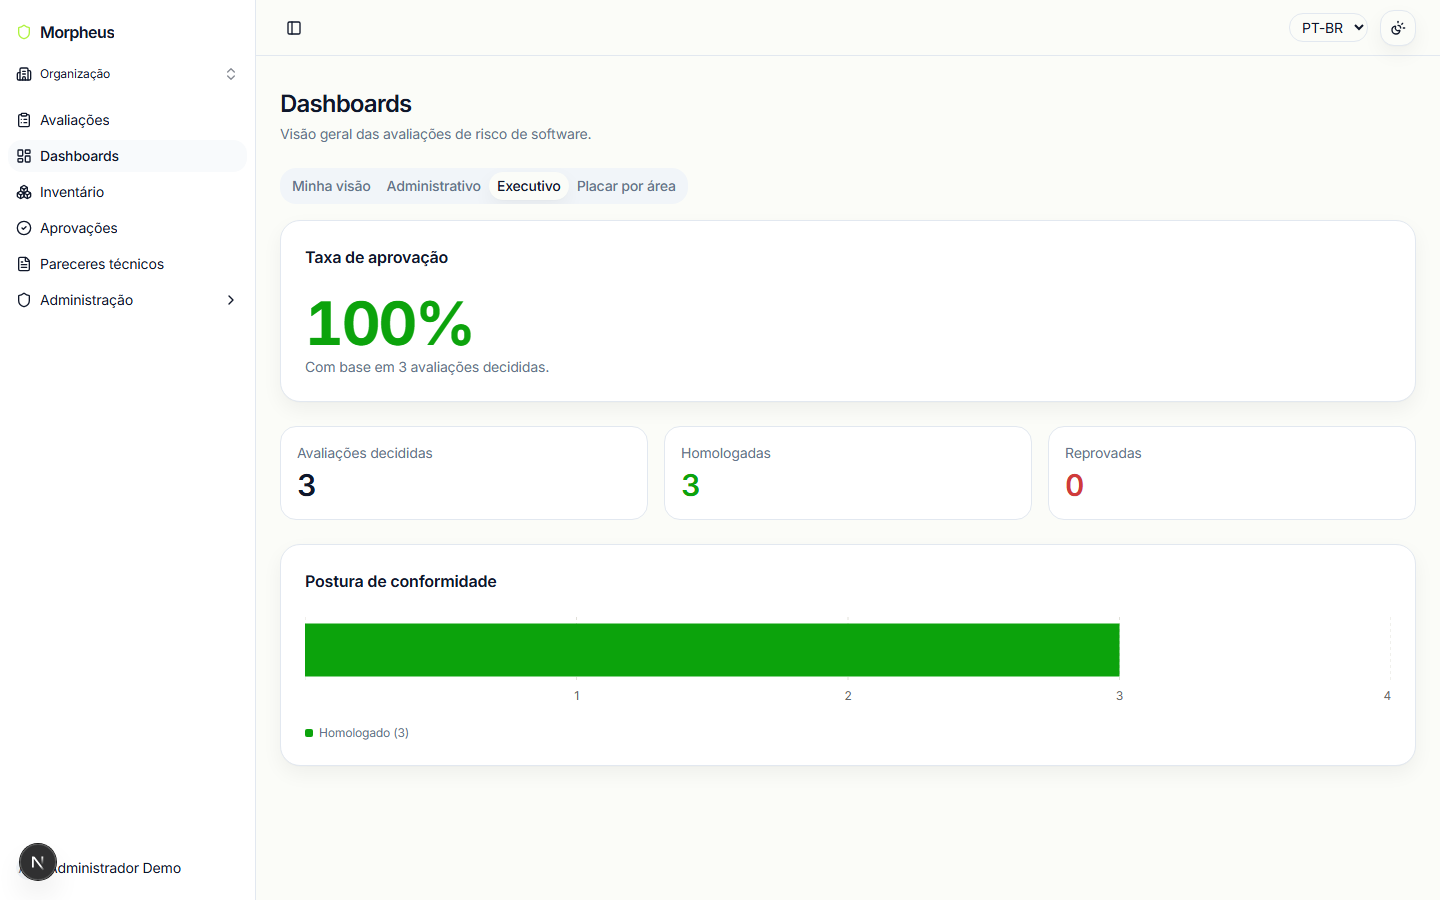
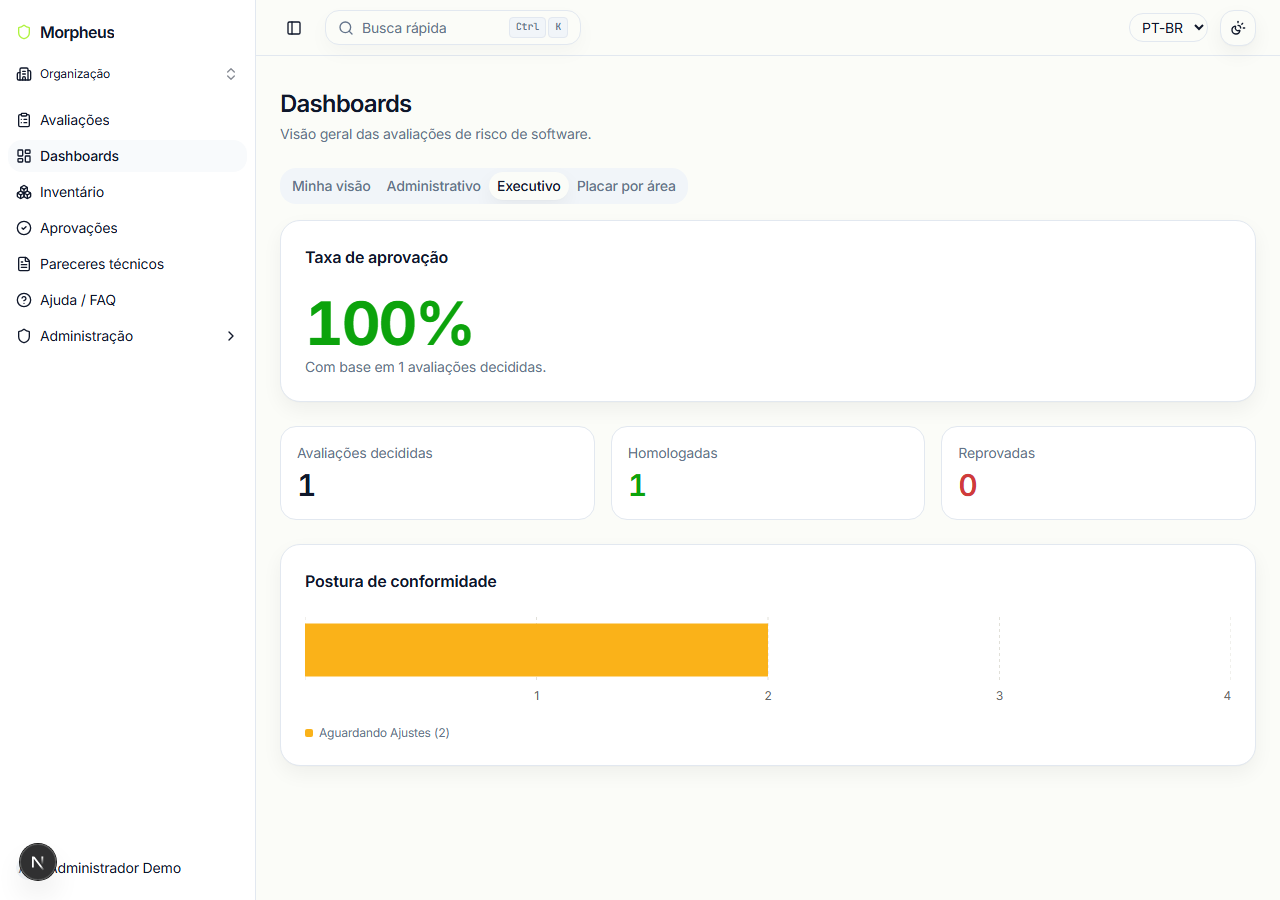
docs: seção sobre a metodologia da matriz de risco no README (PT+EN) (#54)
Explica a abordagem probabilidade x impacto do motor de risco, alinhada
com NIST SP 800-30, e destaca que faixas/classificações/score mínimo são
totalmente customizáveis por tenant (sem mudança de código). Inclui
screenshots novos (PT e EN) da tela de parametrização da matriz pareados
com o dashboard executivo (postura de conformidade).

diff --git a/docs/DEVELOPMENT.md b/docs/DEVELOPMENT.md
@@ -1786,3 +1786,41 @@ permissões seedadas desde a Etapa 1 que nunca tinham sido usadas por nenhum end
     teste já existente de `dashboards.service.spec.ts`, não um teste novo - contagem total não muda).
 
 Com a Fase 6, as 6 fases do plano de renovação anual de homologação estão completas.
+- **Limpeza de dados de amostra + samples de API** (item de backlog, 2026-07-24). Removidos 4
+  avaliações e 6 itens de inventário de teste/placeholder (`E2E Test Software ...`, `Smoke Test
+  Item`, `Sistema Inventario/Auditoria/Parecer PDF Test`, `tesste`) via `DELETE` direto no Postgres
+  numa transação - o schema já cobre a cascata certa (`Assessment` → versões/respostas/instância de
+  workflow+etapas/pareceres via `onDelete: Cascade`; `SoftwareInventoryItem.assessmentId` usa
+  `onDelete: SetNull`, então itens de inventário sobrevivem independentes da avaliação de origem).
+  A pedido do usuário, também enriquecido com 2 amostras reais de `API_INTEGRATION`: adicionados
+  links de documentação (Swagger + Jira) no item `Internal Billing API` já existente, e criado um
+  item novo, `Freight Tracking API` (LogiTrack Systems, área Operações, Swagger + Postman), via
+  `POST /inventory` de verdade (não SQL direto, pra passar pela validação normal). **Gotcha**: texto
+  acentuado em PT-BR (`"Logística"`) enviado via `curl -d` neste ambiente Windows/Git Bash corrompeu
+  a codificação UTF-8 silenciosamente (armazenou `Log�stica`, mas a API respondeu 200/201 normal) -
+  corrigido via `UPDATE` direto no Postgres removendo o acento. Fica registrado como cuidado pra
+  próxima vez que precisar inserir texto acentuado via curl neste setup.
+- **README: seção de metodologia da matriz de risco (PT + EN)** (pedido do usuário, 2026-07-24,
+  explicitamente depois da renovação anual e da limpeza de amostras acima, pra ter dados
+  realistas nos prints). Nova seção `## Matriz de risco (metodologia)` / `## Risk matrix
+  (methodology)`, posicionada entre "O que o Morpheus faz"/"What Morpheus does" e "Controles de
+  segurança"/"Implemented security controls" - explica a abordagem probabilidade × impacto,
+  menciona alinhamento com NIST SP 800-30 (*Guide for Conducting Risk Assessments*) como referência
+  de mercado, e destaca que nada é fixo em código (faixas, classificações, cor, texto de
+  recomendação, score mínimo de aprovação e a matriz inteira são versionáveis por tenant, via
+  `RiskMatrixService`/`RiskEngineService` já existentes desde a Etapa 5 - nenhuma mudança de código,
+  só documentação).
+  - Screenshots novos: `risk-matrix-config.png`/`-en.png` (tela `/admin/risk-matrix/[id]`, grade de
+    decisão/heatmap completa) pareados com `dashboard-executivo.png`/`-en.png` (dashboard executivo,
+    gráfico de postura de conformidade) - capturados via Playwright (já uma devDependency real de
+    `apps/web` desde a Fase 4 da renovação anual), logado como `[email redacted]`, um passe em
+    `pt-BR` e outro em `en` (URLs com prefixo de locale, `/pt-BR/...` e `/en/...`).
+  - De quebra, resolvido o item de backlog "screenshots do README em inglês reusavam print em
+    PT-BR" **só pra tela de dashboard executivo** (não as outras telas do README) - a tabela de
+    "Screenshots" (seção em inglês) passou a referenciar `dashboard-executivo-en.png` em vez do
+    arquivo PT-BR que reusava antes. As demais telas do README continuam com esse gap, registrado
+    à parte no backlog.
+  - Config usada como referência: "Matriz Padrão" (tenant demo, ativa, versão 1) - já tinha faixas
+    de probabilidade/impacto e classificações (Rejeitado/Aguardando Ajustes/Homologado) configuradas
+    de sessões anteriores, sem precisar criar nada novo pro print.
+  - Sem mudança de código nesta entrada - só `README.md` e os 4 arquivos de screenshot.

diff --git a/README.md b/README.md
@@ -18,6 +18,23 @@ empresa - uma forma de reduzir Shadow IT. Do questionário de risco à decisão 
 5. Inventário de software homologado, com ciclo de revisão periódica.
 6. Dashboards de postura de conformidade e placar de maturidade por área.
 
+## Matriz de risco (metodologia)
+
+O motor de risco segue uma abordagem clássica de avaliação - probabilidade × impacto - alinhada com
+frameworks reconhecidos como o NIST SP 800-30 (*Guide for Conducting Risk Assessments*): cada
+pergunta do questionário contribui, com peso próprio, para uma das duas dimensões (ou ambas), e o
+resultado é classificado contra faixas configuráveis pelo administrador.
+
+Nada disso é fixo em código. Por tenant, é possível parametrizar quantas faixas de probabilidade e
+de impacto existem, como elas se cruzam numa grade de decisão (heatmap), o texto de recomendação e
+a cor de cada classificação, e o score mínimo de aprovação - inclusive versionar a matriz inteira
+(ativar uma "Matriz Padrão v2" sem perder o histórico das avaliações já decididas contra a versão
+anterior).
+
+| Matriz de risco - grade de decisão | Dashboard executivo - postura de conformidade |
+| --- | --- |
+| ![Matriz de risco](./docs/screenshots/risk-matrix-config.png) | ![Postura de conformidade](./docs/screenshots/dashboard-executivo.png) |
+
 ## Controles de segurança implementados
 
 - **RBAC granular por permissão** (não só por papel), com decorators dedicados para composição
@@ -123,6 +140,23 @@ reduce Shadow IT. From risk questionnaire to final decision:
 5. Homologated software inventory, with periodic review cycle.
 6. Compliance-posture dashboards and a maturity leaderboard by area.
 
+## Risk matrix (methodology)
+
+The risk engine follows a classic likelihood × impact assessment approach, aligned with recognized
+frameworks such as NIST SP 800-30 (*Guide for Conducting Risk Assessments*): each questionnaire
+question contributes, with its own weight, to one of the two dimensions (or both), and the result
+is classified against admin-configurable bands.
+
+None of this is hardcoded. Per tenant, you can configure how many probability and impact bands
+exist, how they intersect in a decision grid (heatmap), each classification's recommendation text
+and color, and the minimum approval score - including versioning the whole matrix (activate a
+"Standard Matrix v2" without losing the history of assessments already decided against the
+previous version).
+
+| Risk matrix - decision grid | Executive dashboard - compliance posture |
+| --- | --- |
+| ![Risk matrix](./docs/screenshots/risk-matrix-config-en.png) | ![Compliance posture](./docs/screenshots/dashboard-executivo-en.png) |
+
 ## Implemented security controls
 
 - **Granular, permission-level RBAC** (not just role-level), with dedicated decorators for AND/OR
@@ -147,7 +181,7 @@ reduce Shadow IT. From risk questionnaire to final decision:
 
 | Executive | Leaderboard |
 | --- | --- |
-| ![Dashboard - executive](./docs/screenshots/dashboard-executivo.png) | ![Dashboard - leaderboard](./docs/screenshots/dashboard-placar-por-area.png) |
+| ![Dashboard - executive](./docs/screenshots/dashboard-executivo-en.png) | ![Dashboard - leaderboard](./docs/screenshots/dashboard-placar-por-area.png) |
 
 | Login - organization picker | Quick search (Cmd/Ctrl+K) |
 | --- | --- |